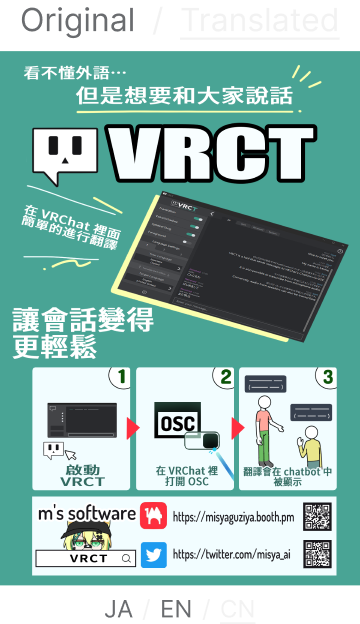
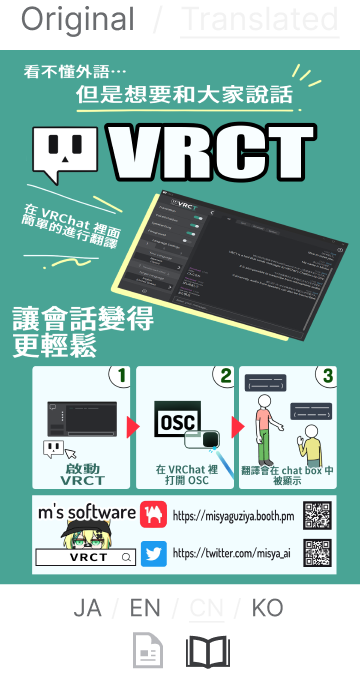
[Update] About VRCT: add poster(ko) and mangas.

diff --git a/vrct_gui/config_window/widgets/createSideMenuAndSettingsBoxContainers/setting_box_containers/setting_box_about_vrct/createSettingBox_AboutVrct.py b/vrct_gui/config_window/widgets/createSideMenuAndSettingsBoxContainers/setting_box_containers/setting_box_about_vrct/createSettingBox_AboutVrct.py
@@ -495,14 +495,14 @@ def createSettingBox_AboutVrct(setting_box_wrapper, config_window, settings, vie
 
 
     # For change the image, register to config_window
-    config_window.poster_image_frame__iya_vrct_poster_ja = settings.about_vrct.embedImageCTkLabel(poster_images_wrapper, "iya_vrct_poster_ja.png", directly_type="vrct_posters")
-    config_window.poster_image_frame__iya_vrct_poster_en = settings.about_vrct.embedImageCTkLabel(poster_images_wrapper, "iya_vrct_poster_en.png", directly_type="vrct_posters")
-    config_window.poster_image_frame__iya_vrct_poster_cn = settings.about_vrct.embedImageCTkLabel(poster_images_wrapper, "iya_vrct_poster_cn.png", directly_type="vrct_posters")
-
     config_window.poster_image_frame_dict = {
-        "iya_vrct_poster_ja": config_window.poster_image_frame__iya_vrct_poster_ja,
-        "iya_vrct_poster_en": config_window.poster_image_frame__iya_vrct_poster_en,
-        "iya_vrct_poster_cn": config_window.poster_image_frame__iya_vrct_poster_cn,
+        "iya_vrct_poster_ja": settings.about_vrct.embedImageCTkLabel(poster_images_wrapper, "iya_vrct_poster_ja.png", directly_type="vrct_posters"),
+        "iya_vrct_poster_en": settings.about_vrct.embedImageCTkLabel(poster_images_wrapper, "iya_vrct_poster_en.png", directly_type="vrct_posters"),
+        "iya_vrct_poster_cn": settings.about_vrct.embedImageCTkLabel(poster_images_wrapper, "iya_vrct_poster_cn.png", directly_type="vrct_posters"),
+        "iya_vrct_poster_ko": settings.about_vrct.embedImageCTkLabel(poster_images_wrapper, "iya_vrct_poster_ko.png", directly_type="vrct_posters"),
+        "iya_vrct_manga_ja": settings.about_vrct.embedImageCTkLabel(poster_images_wrapper, "iya_vrct_manga_ja.png", directly_type="vrct_posters"),
+        "iya_vrct_manga_en": settings.about_vrct.embedImageCTkLabel(poster_images_wrapper, "iya_vrct_manga_en.png", directly_type="vrct_posters"),
+        "iya_vrct_manga_ko": settings.about_vrct.embedImageCTkLabel(poster_images_wrapper, "iya_vrct_manga_ko.png", directly_type="vrct_posters"),
     }
     def vrctPostersGridRemove():
         for poster_frame in config_window.poster_image_frame_dict.values():
@@ -512,7 +512,7 @@ def createSettingBox_AboutVrct(setting_box_wrapper, config_window, settings, vie
     def gridVrctPoster_Ja():
         vrctPostersGridRemove()
         config_window.poster_image_frame_dict["iya_vrct_poster_ja"].grid(column=1, row=0, padx=0, pady=0, sticky="nsew")
-        view_variable.CALLBACK_ABOUT_VRCT_POSTER_PREV_BUTTON=gridVrctPoster_Cn
+        view_variable.CALLBACK_ABOUT_VRCT_POSTER_PREV_BUTTON=gridVrctManga_Ko
         view_variable.CALLBACK_ABOUT_VRCT_POSTER_NEXT_BUTTON=gridVrctPoster_En
 
     def gridVrctPoster_En():
@@ -525,7 +525,35 @@ def createSettingBox_AboutVrct(setting_box_wrapper, config_window, settings, vie
         vrctPostersGridRemove()
         config_window.poster_image_frame_dict["iya_vrct_poster_cn"].grid(column=1, row=0, padx=0, pady=0, sticky="nsew")
         view_variable.CALLBACK_ABOUT_VRCT_POSTER_PREV_BUTTON=gridVrctPoster_En
+        view_variable.CALLBACK_ABOUT_VRCT_POSTER_NEXT_BUTTON=gridVrctPoster_Ko
+
+    def gridVrctPoster_Ko():
+        vrctPostersGridRemove()
+        config_window.poster_image_frame_dict["iya_vrct_poster_ko"].grid(column=1, row=0, padx=0, pady=0, sticky="nsew")
+        view_variable.CALLBACK_ABOUT_VRCT_POSTER_PREV_BUTTON=gridVrctPoster_Cn
+        view_variable.CALLBACK_ABOUT_VRCT_POSTER_NEXT_BUTTON=gridVrctManga_Ja
+
+
+    def gridVrctManga_Ja():
+        vrctPostersGridRemove()
+        config_window.poster_image_frame_dict["iya_vrct_manga_ja"].grid(column=1, row=0, padx=0, pady=0, sticky="nsew")
+        view_variable.CALLBACK_ABOUT_VRCT_POSTER_PREV_BUTTON=gridVrctPoster_Ko
+        view_variable.CALLBACK_ABOUT_VRCT_POSTER_NEXT_BUTTON=gridVrctManga_En
+
+    def gridVrctManga_En():
+        vrctPostersGridRemove()
+        config_window.poster_image_frame_dict["iya_vrct_manga_en"].grid(column=1, row=0, padx=0, pady=0, sticky="nsew")
+        view_variable.CALLBACK_ABOUT_VRCT_POSTER_PREV_BUTTON=gridVrctManga_Ja
+        view_variable.CALLBACK_ABOUT_VRCT_POSTER_NEXT_BUTTON=gridVrctManga_Ko
+
+    def gridVrctManga_Ko():
+        vrctPostersGridRemove()
+        config_window.poster_image_frame_dict["iya_vrct_manga_ko"].grid(column=1, row=0, padx=0, pady=0, sticky="nsew")
+        view_variable.CALLBACK_ABOUT_VRCT_POSTER_PREV_BUTTON=gridVrctManga_En
         view_variable.CALLBACK_ABOUT_VRCT_POSTER_NEXT_BUTTON=gridVrctPoster_Ja
+
+
+
 
     gridVrctPoster_Ja()
 
